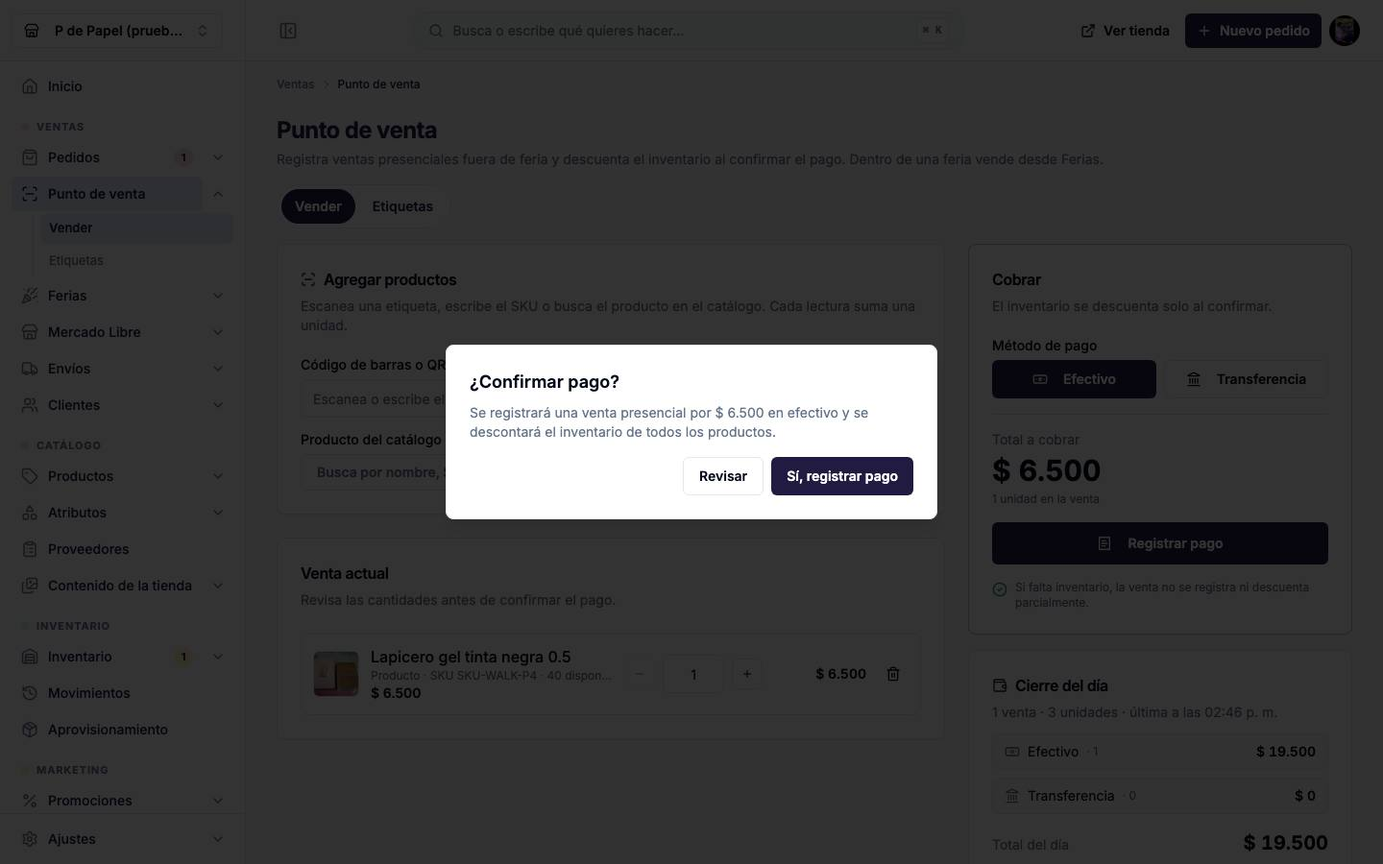
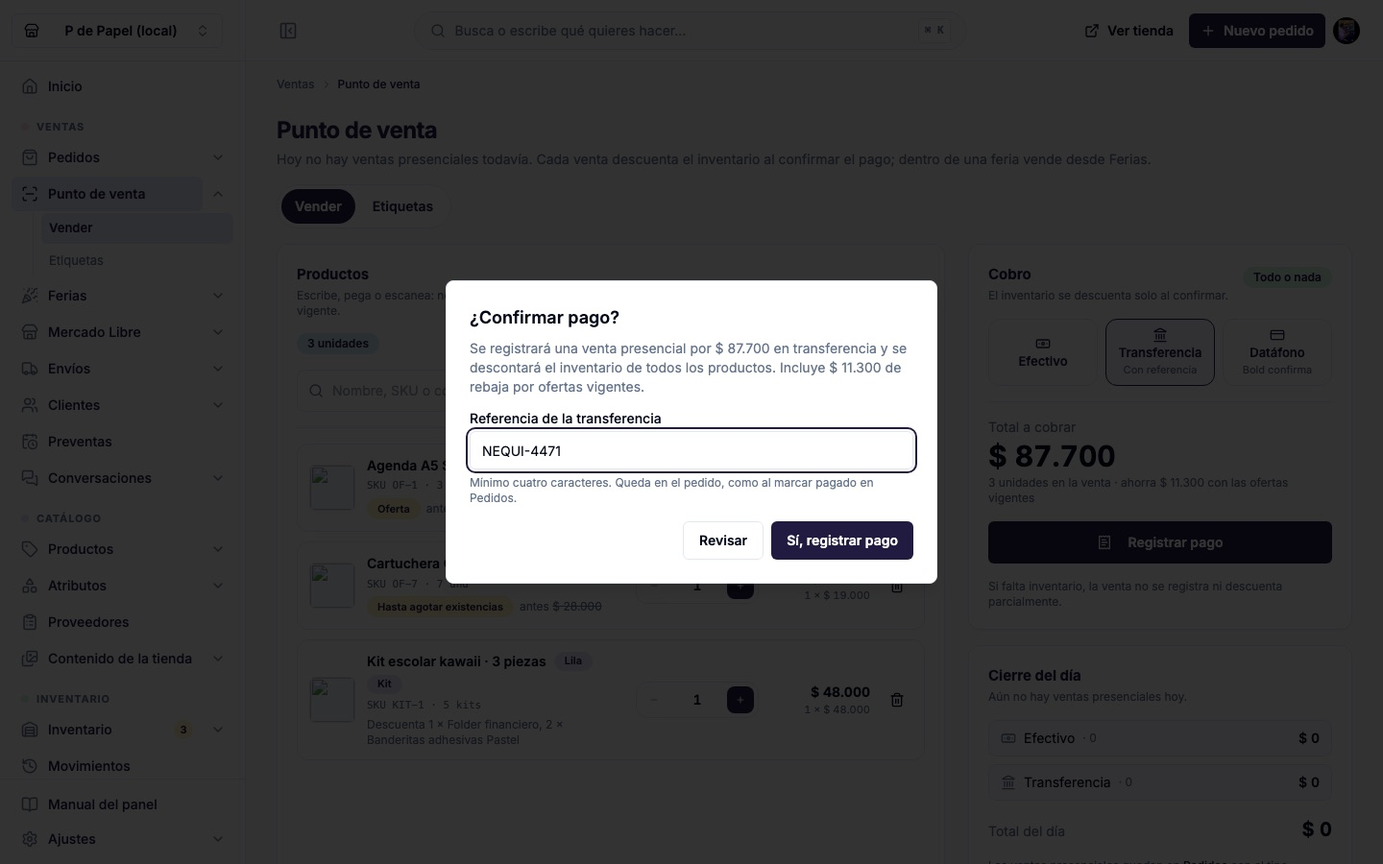
docs(vender): guía rápida, guía del panel, manual del panel y contexto del agente al día con el nuevo Vender
Claude-Session: https://claude.ai/code/session_012geSSt2ookeoYALBqjbdbZ

diff --git a/pdepapel-admin/content/manual/manual.html b/pdepapel-admin/content/manual/manual.html
@@ -364,17 +364,31 @@
     <section class="chapter" id="pos" style="--dot:#5FC98D">
       <div class="chapter-head"><span class="area">Ventas</span><h2>5. Punto de venta</h2></div>
       <div class="route">Ruta: <code>/ventas-rapidas</code> · pestañas Vender y Etiquetas</div>
-      <p>Para vender en el mostrador. Cada venta queda como un pedido pagado y descuenta el inventario en el momento de confirmar.</p>
-      <figure class="screen"><div class="frame"><div class="bar"><i></i><i></i><i></i></div><img src="/manual/img/pos-vender" alt="La pestaña Vender: a la izquierda cómo agregar productos y la venta actual; a la derecha el cobro y el cierre del día." loading="lazy" width="1440" height="900"></div><figcaption>La pestaña Vender: a la izquierda cómo agregar productos y la venta actual; a la derecha el cobro y el cierre del día.</figcaption></figure>
+      <p>Para vender en el mostrador. Cada venta queda como un pedido pagado y descuenta el inventario en el momento de confirmar. Las ofertas vigentes de la tienda aplican también aquí, con el mismo precio rebajado.</p>
+      <figure class="screen"><div class="frame"><div class="bar"><i></i><i></i><i></i></div><img src="/manual/img/pos-vender" alt="La pestaña Vender: a la izquierda la casilla Buscar o escanear con la lista de productos y la venta actual; a la derecha el cobro con Efectivo, Transferencia y Datáfono, y el cierre del día." loading="lazy" width="1440" height="900"></div><figcaption>La pestaña Vender: a la izquierda la casilla Buscar o escanear con la lista de productos y la venta actual; a la derecha el cobro con Efectivo, Transferencia y Datáfono, y el cierre del día.</figcaption></figure>
       <h3>Registrar una venta</h3>
       <ol class="steps">
-        <li>Agrega productos de una de tres formas: <strong>escanea</strong> la etiqueta con el lector, la cámara (botón Escanear) o el <strong>celular vinculado</strong> (icono de celular; ver más abajo), <strong>escribe el código</strong> (SKU o código de barras) y pulsa «Agregar código», o <strong>búscalo en el catálogo</strong> por nombre, SKU o código. Cada lectura suma una unidad.</li>
-        <li>En <strong>Venta actual</strong> ajusta cantidades con + y − o quita una línea con la papelera. El panel no deja vender más unidades de las que hay.</li>
-        <li>Elige el método de pago: <strong>Efectivo</strong> o <strong>Transferencia</strong>.</li>
-        <li>Pulsa <strong>Registrar pago</strong> y confirma en el diálogo. Se crea el pedido, se descuenta el inventario y aparece el número de pedido.</li>
+        <li><strong>Buscar o escanear.</strong> Una sola casilla para todo: escribe o pega el nombre, el SKU o el código de barras; el lector de mano escribe el código y pulsa Enter solo; el botón <strong>Escanear</strong> abre la cámara; el <strong>celular vinculado</strong> (icono de celular, ver más abajo) manda las lecturas aquí. Al abrir la pantalla ya aparecen los más vendidos con unidades; al escribir, la lista pone el <strong>código exacto primero</strong>, después lo que tiene unidades (los más vendidos antes) y los <strong>agotados al final</strong>, en gris y sin poderse agregar. Cada fila muestra color y tamaño, «SKU · unidades» y el precio; con oferta, el precio rebajado y el anterior tachado.</li>
+        <li>Un <strong>código exacto</strong> entra solo. Si lo leído no coincide con ningún producto, o coincide con varios, la pantalla lo dice en una línea y eliges de la lista. Un producto agotado no se agrega: corrige su inventario antes.</li>
+        <li>En la <strong>venta</strong> cada línea muestra la variante, «antes $ …» si hay oferta y, en un kit, <strong>qué unidades descuenta</strong>. Ajusta cantidades con + y − o quita la línea con la papelera. El panel no deja vender más unidades de las que hay.</li>
+        <li>Elige cómo pagó la persona: <strong>Efectivo</strong>; <strong>Transferencia</strong>, que al confirmar pide la <strong>referencia del comprobante</strong> (mínimo cuatro caracteres) y la guarda en el pedido; o <strong>Datáfono</strong>, que envía el cobro al datáfono Bold igual que en Pedidos: la venta queda pendiente y se marca pagada, descontando el inventario, cuando Bold confirma.</li>
+        <li>Pulsa <strong>Registrar pago</strong> (en el celular y la tableta está en la barra fija de abajo, junto al total) y confirma en el diálogo, que repite el total, el método y la rebaja por ofertas.</li>
       </ol>
-      <figure class="screen"><div class="frame"><div class="bar"><i></i><i></i><i></i></div><img src="/manual/img/pos-confirmar" alt="La confirmación antes de registrar: repite el total, el método y avisa que se descuenta el inventario." loading="lazy" width="1440" height="900"></div><figcaption>La confirmación antes de registrar: repite el total, el método y avisa que se descuenta el inventario.</figcaption></figure>
-      <p>La tarjeta <strong>Cierre del día</strong> suma las ventas presenciales de hoy por método de pago: es la referencia para cuadrar caja al cerrar.</p>
+      <div class="screens">
+        <figure class="screen"><div class="frame"><div class="bar"><i></i><i></i><i></i></div><img src="/manual/img/pos-confirmar" alt="La confirmación de una venta por transferencia: repite el total y pide la referencia del comprobante antes de registrar." loading="lazy" width="1440" height="900"></div><figcaption>La confirmación de una venta por transferencia: repite el total y pide la referencia del comprobante antes de registrar.</figcaption></figure>
+        <figure class="screen phone"><div class="frame"><div class="bar"><i></i><i></i><i></i></div><img src="/manual/img/movil-vender" alt="Vender en el teléfono: la venta con sus líneas, los tres métodos de pago y la barra fija con el total y Registrar pago." loading="lazy" width="390" height="844"></div><figcaption>Vender en el teléfono: la venta con sus líneas, los tres métodos de pago y la barra fija con el total y Registrar pago.</figcaption></figure>
+      </div>
+      <h3>Después de la venta</h3>
+      <p>En vez de un aviso que desaparece, la tarjeta <strong>Venta registrada</strong> se queda hasta que empieces la siguiente venta, aunque recargues la página.</p>
+      <figure class="screen"><div class="frame"><div class="bar"><i></i><i></i><i></i></div><img src="/manual/img/pos-venta-registrada" alt="La tarjeta Venta registrada: número del pedido, Descargar recibo, Enviar por WhatsApp, Deshacer con los minutos que quedan y Nueva venta." loading="lazy" width="1440" height="900"></div><figcaption>La tarjeta Venta registrada: número del pedido, Descargar recibo, Enviar por WhatsApp, Deshacer con los minutos que quedan y Nueva venta.</figcaption></figure>
+      <ul class="bullets">
+        <li>El <strong>número del pedido</strong> abre la ficha en Pedidos. <strong>Descargar recibo</strong> genera el PDF con los precios cobrados; <strong>Enviar por WhatsApp</strong> abre un mensaje con el resumen para la clienta.</li>
+        <li><strong>Deshacer</strong> está disponible <strong>30 minutos</strong> después del pago: el pedido queda cancelado y las unidades vuelven al inventario con un movimiento de cancelación (un kit devuelve sus componentes). Si ya recibiste el dinero, devuélvelo tú. Pasado ese tiempo, registra la devolución desde Movimientos de inventario.</li>
+        <li>Con <strong>Datáfono</strong> la tarjeta dice «Esperando al datáfono» y cambia sola a Venta registrada cuando Bold confirma; <strong>Cancelar cobro</strong> anula la venta pendiente sin tocar el inventario. Si el datáfono no recibe el cobro, la venta se cancela sola y no descuenta nada.</li>
+        <li><strong>Nueva venta</strong> limpia la tarjeta y deja la casilla lista para el siguiente cliente.</li>
+      </ul>
+      <div class="note tip"><strong>Si no alcanza el inventario</strong><p>No se registra nada: el aviso dice cuál producto, cuántas unidades hay y cuántas pediste. Ajusta las cantidades o revisa Inventario y vuelve a intentar.</p></div>
+      <p>Arriba del todo, junto al título, se resume «Hoy: N ventas · total · última a las …». La tarjeta <strong>Cierre del día</strong> suma las ventas presenciales de hoy por método de pago (Efectivo, Transferencia y, si hubo, Datáfono) y lista las últimas: es la referencia para cuadrar caja al cerrar.</p>
       <h3>Etiquetas</h3>
       <p>La pestaña <strong>Etiquetas</strong> arma una hoja con el QR de cada producto o variante para pegarlo en la caja o el exhibidor. Una etiqueta se reutiliza: se escanea cada vez que se vende esa referencia; no hace falta una por unidad.</p>
       <figure class="screen"><div class="frame"><div class="bar"><i></i><i></i><i></i></div><img src="/manual/img/pos-etiquetas" alt="La pestaña Etiquetas: buscar o escanear el producto, cantidad, qué lleva cada etiqueta y, a la derecha, la hoja para imprimir." loading="lazy" width="1440" height="900"></div><figcaption>La pestaña Etiquetas: buscar o escanear el producto, cantidad, qué lleva cada etiqueta y, a la derecha, la hoja para imprimir.</figcaption></figure>

diff --git a/docs/AI_AGENT_CONTEXT.md b/docs/AI_AGENT_CONTEXT.md
@@ -578,6 +578,7 @@ Known manual migration references:
 - **Icons:** a `Type` carries its icon in two exclusive fields. `icon` is a Lucide name in kebab-case (validated only by the pattern `^[a-z0-9-]{2,32}$`); `iconSvg` is the sanitised inner markup of an AI-generated 24×24 Lucide-style icon. Both apps resolve `iconSvg` → `icon` → keyword fallback from slug/name (`lib/taxonomy-icons.ts` in the admin, `lib/type-icons.tsx` in the store) → `tag`. Every write to `iconSvg` passes through `lib/svg-icon.ts` (identical copy in the store): only `path|circle|line|rect|polyline|polygon|ellipse` with geometry attributes survive, presentation attributes are stripped, anything else is a 400, and renderers build React elements and add the Lucide wrapper attributes themselves, never `dangerouslySetInnerHTML`. Type names never contain emoji: POST/PATCH strip a leading symbol (`stripTaxonomyIcon`) and the migration cleaned the 14 production rows, mapping each to the Lucide name the store already chose by keyword. The picker (`components/ui/icon-picker.tsx`) shows the 16 curated icons as tiles, searches all Lucide icons visually with Spanish synonyms, and loads the icon index lazily; `POST /api/[storeId]/types/icon-suggestions` (owner-only, 20 requests per 10 minutes per store, 503 without `GEMINI_API_KEY`) returns up to three sanitised proposals and never assigns one by itself. The store renders arbitrary Lucide names through a lazy `DynamicIcon` (`lib/type-icon-dynamic.tsx`) so the icon map stays out of the initial bundle.
 - **Form pattern:** the five taxonomy forms, the supplier form and the restock draft form share the section-card chrome (`SectionCard`, `FormPageHeader`, sticky footer, usage aside, `useUnsavedChangesGuard`, `useFormPersist` for new records only, Spanish Zod messages, single column on phones). The subcategory slug is not editable from the form: the API regenerates it from the name and keeps the previous slug as a `CategorySlugAlias`, so the form shows the URL read-only and says so.
 
+- **Vender rework (2026-09-19): one entry, offer prices, Bold terminal, after-sale card, undo.** Audit canvas https://claude.ai/artifact/RkbHQ89V5t6c6QtCuRuE3q. *Search:* `GET /products/search?mode=venta&q=&limit=30` (`searchForSale` in the route, 60 s Redis key `admin-select:venta:…`) returns one page ranked by `lib/sale-search.ts › rankSaleCandidates` (exact SKU/GTIN → in-stock by name prefix / contains, `soldCount` desc → sold-out last, deduped), each row with `offerPrice`/`offerLabel` from `getProductsPrices`, chips (`saleCandidateChips`: colour, size, design when not in the name, «Kit»; placeholders such as «Único» skipped) and `kitComponents` for «Descuenta 2 × …». Empty query = best-sellers with units, preloaded on mount. *UI:* `components/sales/sale-search.tsx` is the single «Buscar o escanear» entry (typing/paste, handheld Enter, camera `BarcodeScanner compact remoteStatusLabel`, paired phone) mounted through the new `SellSource.renderEntry` slot of the shared `components/sales/sell-panel.tsx`; only an exact code is added without choosing (`findExactSaleCandidate`, refetched when the loaded rows are stale), Enter adds the highlighted name match only once the debounced rows match the typed text (`rowsMatchQuery`, so a scanner's Enter never grabs a stale row), sold-out rows are `aria-disabled` with an inline notice, skeleton rows replace «Cargando más…». `SellSource` also gained `paymentOptions`, `requireTransferReference`, `renderAfterSale(sale, { reset, update })` and `copy`; `lookup`/`renderPicker` stay optional for Ferias, which is unchanged. Cart lines (`lib/sell-cart.ts › SellLine`) carry `originalPrice`, `offerLabel`, `chips`, `note`; `cartTotals` reports `savings`. Payment picker is a 3-up `RadioGroup` (icon above label so «Transferencia» fits in 390 px and in the 360 px card); the confirm dialog asks the transfer reference (≥ 4) and explains the terminal; phone/tablet get a sticky bottom bar with the total and «Registrar pago» (`lg:hidden`, the card button is `hidden lg:flex`). *Server:* `lib/point-of-sale.ts › createPointOfSaleSale` accepts `transactionId`, validates the method against `POINT_OF_SALE_PAYMENT_METHODS` (CASH, BankTransfer, Bold), prices lines through `getProductsPrices` (`price` = offer price on the order item, list price + acquisition cost on the movement, `adminNotes` notes «ofertas aplicadas: $ N»), answers insufficient stock with a 422 and the readable `describeInsufficientStock` message, and for Bold creates the order `PENDING` with items and no movements (`pending: true`); the sales route then calls `chargePointOfSaleOnTerminal` (`pushToBoldDatafono`; a refused push cancels the pending order with the reason) and the existing Bold webhook (`SALE_APPROVED`, amount must match, claims `CREATED|PENDING` only) marks it paid, writes `ORDER_PLACED` movements and `paidAt`. `undoPointOfSaleSale` (`POST /point-of-sale/sales/[orderId]/undo`, owner only; `describeUndoBlock`) cancels a `PAID` sale within `SALE_UNDO_WINDOW_MS` (30 min from `paidAt`) writing one `ORDER_CANCELLED` movement per physical product (kits return components, same shape as the sale, cost = acquisition price) via `createInventoryMovementBatch`, recalculates kits and queues ML sync; a `PENDING` terminal sale is only cancelled. `lib/point-of-sale-day.ts` labels the `other` bucket «Datáfono». *After-sale:* `components/sales/sale-done-card.tsx` replaces the toast: link to `/pedidos/[id]`, `InvoiceDownloadButton` (loaded with `next/dynamic` + `ssr: false`, like Pedidos; a plain import rendered `undefined` and crashed the panel), WhatsApp `wa.me/?text=` summary without personal data, «Deshacer · N min» countdown → confirm → undo route, «Nueva venta»; with Bold it polls `GET /orders/[id]` every 5 s until `PAID` (→ card flips, `router.refresh()`) or `CANCELLED`. The card's state lives in the `SellCompletedSale` record (`pending`, `undone`, `cancelled`) and the POS adapter passes `persistLastSaleKey` so the panel keeps it in `sessionStorage`: **`router.refresh()` remounts the whole client tree under `(routes)` (template + loading boundary, same gotcha as Promociones), so without persistence the card vanished right after the sale.** Page header shows «Hoy: N ventas · $ · última a las HH:MM»; «Últimas ventas» rows stack on phones with the order number on its own line. Deliberately not added: a manual per-sale discount (offers only). Tests: `tests/unit/lib/{sale-search,sell-cart,point-of-sale-messages}.test.ts`, `tests/unit/routes/{point-of-sale-sales,products-search-venta}.test.ts`, `tests/components/{sale-search,sell-panel,sale-done-card,sell-panel-catalog-scan}.test.tsx`, and `tests/integration/point-of-sale-rework.test.ts` on the local MySQL (transfer reference, offer sale with cost basis, kit undo, late undo refused, Bold end to end through the webhook with replay + undo, pending cancel ignores a late approval, refused push cancels). Runbook: `pdepapel-admin/docs/punto-de-venta.md`; guide §5; manual chapter 5.
 - **Atributos audit (2026-09-19): merge, cleanup hints, store-scoped product attributes.** The five lists sort by name (sizes by code), show a usage bar (`productsCount` rolled up over subcategories for categories), «Actualizado», and cleanup hints computed client-side by `lib/attribute-hints.ts › computeAttributeHints` from `lib/taxonomy.ts` (`taxonomyNameSimilarity`: igual / plural / prefijo / raíz; `taxonomyNameIssues`; `hexColorIssue`): «Repetido con…», «Parecido a…», «Sin productos», «Nombre por corregir», «Valor con espacio al final», «Mismo tono que N más», «Sin icono». A «Revisar» faceted filter (options from `ATTRIBUTE_FILTER_OPTIONS`, counts in the labels) plus, for subcategories, «Categoría» and «Página en la tienda» filters; `?categoria=<typeId>` pre-filters subcategories («Ver sus subcategorías»). Row menu order follows Productos (editar · ver sus productos · ver en la tienda · unir · archivar · eliminar with the reason · copiar ID) via the shared `atributos/components/attribute-row-menu.tsx`; below `sm` each row is an `AttributeMobileCard` and the tab row becomes a «Qué atributo ver» select. **«Unir con…»** (`lib/attribute-merge.ts`, `POST /api/[storeId]/attributes/merge { kind: categories|sizes|colors|designs, sourceIds, targetId, dryRun? }`, owner only) moves the products to the target, carries offers, catalog options and slug aliases for subcategories (each source slug is preserved as an alias of the target when free), archives the sources (never deletes) and refuses with 409 when a group would end up with two active variants sharing size/color/design (`findVariantCollisions`, same rule as the group routes); SKUs are never touched. Bulk bar: «Unir en uno…» (≥2 active rows), «Mover a otra categoría…» (`POST …/attributes/move { ids, typeId }`), «Eliminar…» only when no selected row has usage. Forms: `AttributeNameHints` under the name (normalised preview, exact duplicate with link, similar name with one-click merge), usage aside with groups / last change / «Ver sus productos» (`/productos?color=|tamano=|diseno=|subcategoria=<id>` filters the list and shows a notice), `AttributeMergeCard`; colors store the hex trimmed and upper-cased (`normalizeHexColor`, API and form) with a same-tone warning that does not block; the size form warns and disables save when the combination already exists and the hub disables «Nuevo tamaño» once all 10 combinations exist. **Product create/update now validate `categoryId/designId/colorId/sizeId` within the store** (`lib/product-attributes.ts › loadProductAttributes`, 400 otherwise); before, a foreign id was accepted silently. Tests: `tests/unit/lib/{taxonomy,attribute-merge}.test.ts`, `tests/integration/{attribute-merge-flow,product-attribute-scope}.test.ts`, `tests/components/{attributes-client,attribute-form-hints,color-form-hints}.test.tsx`. Production data still to clean (needs approval per set): `Morado` hex with a trailing space, two lowercase design names, 20 designs and 1 subcategory with zero products, Osito / Osito panda, and the group «Stickers Nostalgia en vinilo» with three variants sharing S/Negro/Vintage.
 
 ### Store ISR revalidation contract
@@ -674,10 +675,10 @@ The fair module exists because in-person events otherwise create serious online-
 
 ### Everyday point-of-sale workflow
 
-1. Use **Ventas → Punto de venta** for ordinary cash or already-confirmed transfer sales.
+1. Use **Ventas → Punto de venta** for ordinary in-person sales: cash, transfer (reference required, ≥ 4 characters, stored in `PaymentDetails.transactionId`) or the Bold card terminal.
 2. Print reusable product labels from the same page. Search by name/SKU/GTIN, choose the number of copies, and scan `PDP:<productId>` labels later with a phone or Bluetooth scanner.
-3. Confirm cash/transfer only after the money was received. The service creates a paid `POINT_OF_SALE` order, a matching `IN_PERSON_SALE` movement for every physical product, and immediately refreshes online/marketplace availability.
-4. Point-of-sale orders are audit records and cannot be edited or deleted in the generic Orders API. Use an auditable return/manual adjustment for a correction.
+3. Confirm cash/transfer only after the money was received. The service creates a paid `POINT_OF_SALE` order at the **live online offer price** (list price and cost stay on the movement), a matching `IN_PERSON_SALE` movement for every physical product, and immediately refreshes online/marketplace availability. With **Datáfono** the order is created `PENDING` (no movements), pushed to Bold through `pushToBoldDatafono`, and the Bold webhook marks it paid and deducts stock exactly like an online order.
+4. Point-of-sale orders are audit records and cannot be edited or deleted in the generic Orders API. Within **30 minutes of `paidAt`** the owner can undo the sale from the after-sale card (`POST /point-of-sale/sales/[orderId]/undo`: order `CANCELLED`, one `ORDER_CANCELLED` movement per physical product mirroring the sale); after that, use an auditable return/manual adjustment.
 5. Point-of-sale sales are included in tax exports as **Venta presencial**. See `pdepapel-admin/docs/punto-de-venta.md` for the nontechnical guide.
 
 ### Normal fair workflow

diff --git a/pdepapel-admin/docs/punto-de-venta.md b/pdepapel-admin/docs/punto-de-venta.md
@@ -46,14 +46,26 @@ Tienes 8 resaltadores pastel iguales. Imprime una etiqueta del producto **Resalt
 
 ## Registrar una venta
 
-1. En **Agregar productos**, apunta la cámara con **Escanear** a la etiqueta. También puedes escribir el SKU o buscar el producto en el catálogo.
-2. Cada lectura agrega una unidad. Si la persona lleva varias unidades, ajusta el número con los botones `−` y `+`.
-3. Revisa los productos y el total de la venta.
-4. Selecciona **Efectivo** o **Transferencia** según el dinero que ya recibiste.
-5. Pulsa **Registrar pago** y confirma.
-6. Espera el mensaje verde que muestra el número del pedido. Solo entonces la venta quedó registrada.
+1. En **Productos** hay una sola casilla: **Buscar o escanear**. Sirve para escribir o pegar el nombre, el SKU o el código de barras, para el lector de mano (escribe el código y pulsa Enter solo), para la cámara (**Escanear**) y para el celular vinculado. Todo entra por el mismo camino.
+2. Al abrir la pantalla ya aparecen los productos más vendidos con unidades. Al escribir, la lista se ordena para el mostrador: el **código exacto primero**, luego los que tienen unidades (los más vendidos antes) y los **agotados al final**, en gris y sin poderse agregar. Cada fila muestra el color y el tamaño, el SKU, las unidades y el precio; si hay una oferta vigente se ve el precio rebajado y el anterior tachado.
+3. Un código exacto (SKU o código de barras) se agrega solo. Si lo leído no coincide con ningún producto, o coincide con varios, la pantalla lo dice en una línea y te deja elegir de la lista.
+4. En la venta cada línea muestra la variante, el precio con la oferta («antes $ …») y, en un kit, qué unidades descuenta. Ajusta la cantidad con `−` y `+` o quita la línea con la papelera. No deja vender más unidades de las que hay.
+5. Elige cómo pagó la persona:
+   - **Efectivo**.
+   - **Transferencia**: al confirmar te pide la **referencia del comprobante** (mínimo cuatro caracteres). Queda guardada en el pedido, como al marcar pagado en Pedidos.
+   - **Datáfono**: el cobro se envía al datáfono Bold, igual que «Cobrar en el datáfono» en Pedidos. La venta queda **pendiente** hasta que Bold confirma; solo entonces se marca pagada y descuenta el inventario.
+6. Pulsa **Registrar pago** (en celular y tableta está en la barra fija de abajo, junto al total) y confirma.
+7. Aparece la tarjeta **Venta registrada** con el número del pedido (enlaza a Pedidos), **Descargar recibo** en PDF, **Enviar por WhatsApp**, **Deshacer** y **Nueva venta**. La tarjeta se queda hasta que empieces la siguiente venta, aunque recargues la página.
 
-Si un producto ya no tiene unidades, el sistema no permite registrar esa venta. Si alguno de varios productos no tiene disponibilidad, no descuenta ninguno: revisa el inventario y vuelve a intentarlo.
+Si a algún producto no le alcanza el inventario, no se registra nada: el aviso dice cuál producto, cuántas unidades hay y cuántas pediste. Ajusta las cantidades o revisa Inventario y vuelve a intentar.
+
+### Ofertas
+
+Las ofertas vigentes de la tienda en línea también aplican en el mostrador. El precio rebajado es el que se cobra, el que queda en el pedido y el que sale en el recibo; el costo real del producto sigue siendo el de compra, así que el kardex y el margen no cambian. No hay descuento manual por venta: una rebaja se hace como oferta desde Promociones.
+
+### Cobro con datáfono
+
+Al confirmar con **Datáfono**, la tarjeta dice «Esperando al datáfono». Pasa la tarjeta en el aparato; cuando Bold confirma, la tarjeta cambia sola a **Venta registrada** y el inventario se descuenta en ese momento. Si el datáfono no recibe el cobro, la venta pendiente se cancela y no descuenta nada; si la persona se arrepiente antes de pagar, pulsa **Cancelar cobro**.
 
 ## Kits y combos
 
@@ -70,19 +82,18 @@ Las cápsulas sorpresa siguen siendo diferentes:
 
 ## Si te equivocas
 
-No borres una venta presencial desde **Pedidos**: el panel lo impide, tanto de una en una como en acciones masivas. Para que las cuentas y el inventario queden claros:
+- **Dentro de los 30 minutos** siguientes al pago, en la tarjeta de la venta pulsa **Deshacer**: el pedido queda cancelado en Pedidos y las unidades vuelven al inventario con un movimiento de cancelación por producto (un kit devuelve sus componentes). Si ya recibiste el dinero, devuélvelo tú; el panel no mueve plata.
+- **Después de 30 minutos**, o si ya cerraste la tarjeta, registra lo ocurrido en **Inventario → Movimientos de inventario** (devolución, ajuste, daño o pérdida) con una nota corta, por ejemplo `Devolución de venta presencial ORD-...`.
 
-1. Ve a **Inventario → Movimientos de inventario**.
-2. Registra una devolución, ajuste, daño o pérdida según lo que ocurrió realmente.
-3. Escribe una nota corta, por ejemplo: `Devolución de venta presencial ORD-...`.
+No borres una venta presencial desde **Pedidos**: el panel lo impide, tanto de una en una como en acciones masivas.
 
 Una venta hecha **dentro de una feria** se anula desde la propia feria (**Últimas ventas → Anular**), nunca desde Pedidos ni con un ajuste: sus unidades pertenecen a la reserva de la feria.
 
-Si al buscar un producto aparece «Sin stock en línea. Revisa en Inventario.», el producto existe pero no tiene unidades disponibles; corrige el stock desde Inventario antes de venderlo.
+Si un producto aparece como **Agotado** en la lista, existe pero no tiene unidades; corrige el stock desde Inventario antes de venderlo.
 
 ## Cierre del día
 
-En la pestaña **Vender**, bajo el cobro, la tarjeta **Cierre del día** muestra lo vendido hoy en el punto de venta separado por **Efectivo** y **Transferencia**, con el total, las unidades y las últimas ventas. Úsala al terminar la jornada para contrastar el efectivo en caja y las transferencias recibidas. Es una lectura: no mueve dinero ni inventario.
+En la pestaña **Vender**, bajo el cobro, la tarjeta **Cierre del día** muestra lo vendido hoy en el punto de venta separado por **Efectivo**, **Transferencia** y **Datáfono** (esta fila solo aparece si hubo cobros con datáfono), con el total, las unidades y las últimas ventas. Arriba, junto al título, se resume «Hoy: N ventas · total · última a las …». Úsala al terminar la jornada para contrastar el efectivo en caja y las transferencias recibidas. Es una lectura: no mueve dinero ni inventario.
 
 ## Dónde ver las ventas
 
@@ -92,4 +103,4 @@ En la pestaña **Vender**, bajo el cobro, la tarjeta **Cierre del día** muestra
 
 ## Recomendación para el día a día
 
-Imprime etiquetas para los productos que vendas habitualmente fuera de ferias. Durante la venta usa el celular con cámara o un lector Bluetooth. Si vas a una feria, prepara y registra todo desde **Ventas en feria**.
+Imprime etiquetas para los productos que vendas habitualmente fuera de ferias. Durante la venta usa el lector de mano, la cámara del computador o el celular vinculado: los tres entran por la misma casilla. Si vas a una feria, prepara y registra todo desde **Ventas en feria**.

diff --git a/pdepapel-admin/docs/guia-panel-administracion.md b/pdepapel-admin/docs/guia-panel-administracion.md
@@ -105,13 +105,23 @@ Menú de fila: copiar ID o número, link de pago (si no está pagado), datáfono
 
 **Vender**
 
-1. Agrega productos escaneando (lector o cámara), escribiendo el código
-   (SKU o código de barras) y «Agregar código», o buscando en el catálogo.
-2. Ajusta cantidades en «Venta actual»; no deja vender más de lo que hay.
-3. Elige Efectivo o Transferencia.
-4. «Registrar pago» y confirma. Se crea el pedido pagado y se descuenta el
-   inventario.
+1. Una sola casilla «Buscar o escanear»: nombre, SKU o código de barras,
+   lector de mano (Enter), cámara o celular vinculado. La lista se ordena
+   para vender: código exacto, con unidades (más vendidos primero),
+   agotados al final y sin poderse agregar. Cada fila trae color/tamaño y el
+   precio con la oferta vigente.
+2. En la venta cada línea muestra la variante, «antes $ …» si hay oferta y,
+   en un kit, qué descuenta. Ajusta cantidades; no deja vender más de lo que
+   hay.
+3. Elige Efectivo, Transferencia (pide la referencia, mínimo 4 caracteres) o
+   Datáfono (el cobro va a Bold; la venta queda pendiente hasta que Bold
+   confirma y solo entonces descuenta inventario).
+4. «Registrar pago» (en celular está en la barra fija de abajo) y confirma.
+   Aparece la tarjeta Venta registrada: enlace al pedido, recibo PDF,
+   WhatsApp, «Deshacer» durante 30 minutos (cancela el pedido y devuelve el
+   inventario) y «Nueva venta».
 
+Las ofertas de la tienda aplican en el mostrador; no hay descuento manual.
 «Cierre del día» suma lo presencial de hoy por método de pago.
 
 **Etiquetas**: hoja adhesiva con el código de cada producto; elige producto,
